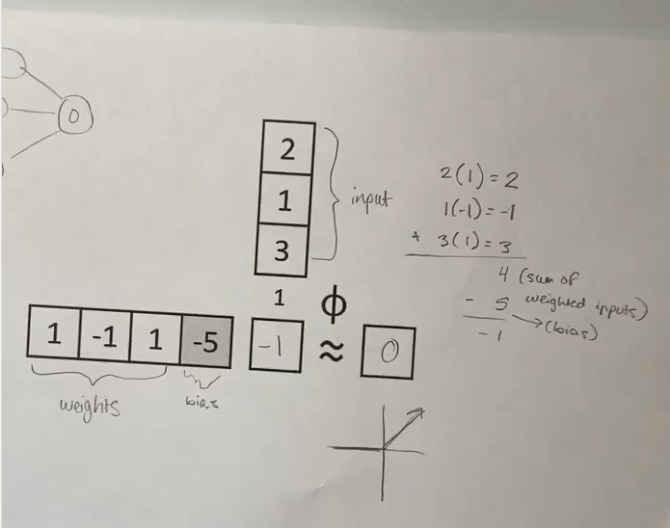
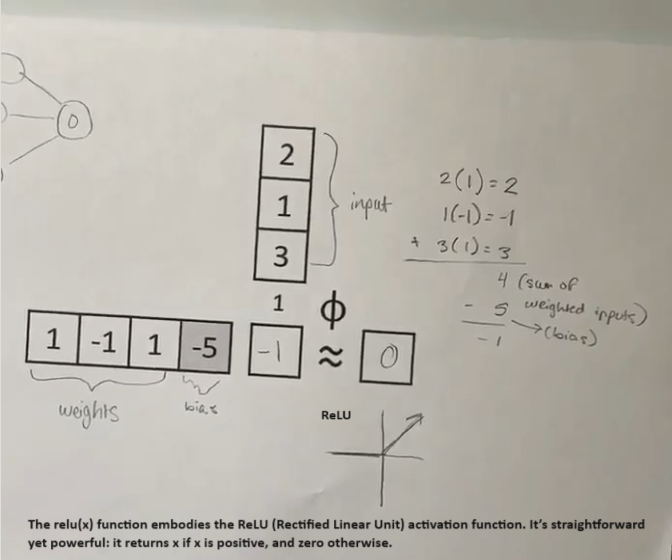
.

diff --git a/02.Single Neuron Networks and ReLU/Readme.md b/02.Single Neuron Networks and ReLU/Readme.md
@@ -1,0 +1,12 @@
+# Single Neuron
+
+## ReLU Function
+
+The ReLU(x) function embodies the ReLU (Rectified Linear Unit) activation function. 
+
+It returns x if x is positive, and zero otherwise. 
+
+This function is key for introducing non-linearity, enabling neural networks to tackle complex problems.
+
+## Neuron Simulation
+
